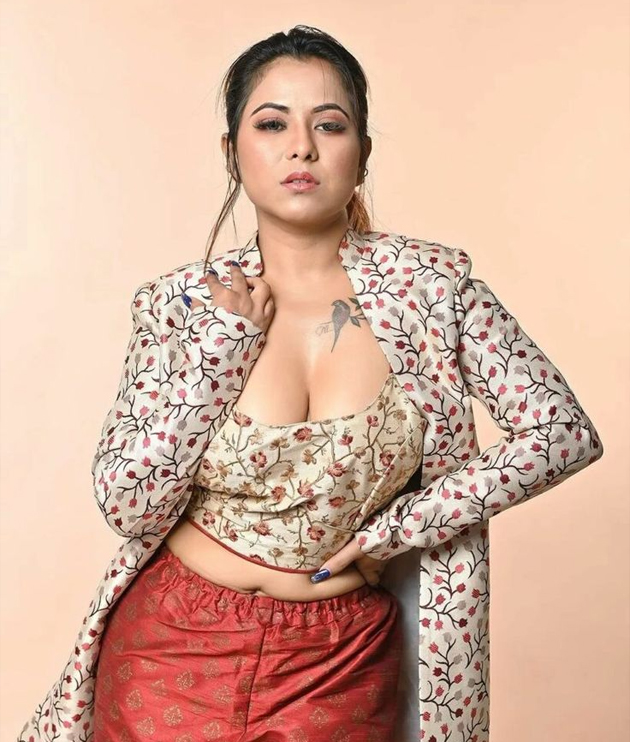
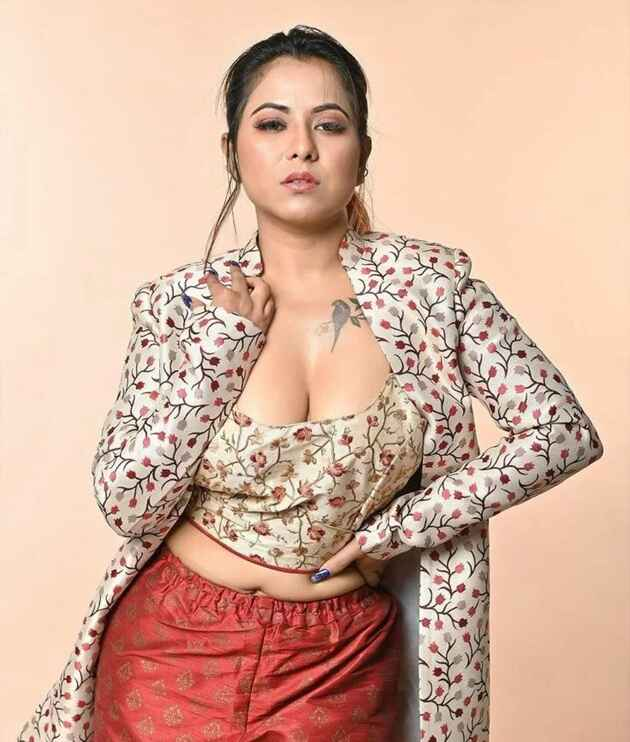
feat(bug fix):
- sort the every dropdown data alphabetically (done)
 - signup link should be domain/register (done)
 - login link should be domain/login (done)
 - reduce the image size (done)
 - On homepage margins above the large text should be reduced (done)
 - On search page the title buttons should be moved and aligned to left (done)

diff --git a/src/main/resources/templates/dashboard.html b/src/main/resources/templates/dashboard.html
@@ -173,17 +173,17 @@
 
   <!-- hero section end -->
   <div th:fragment="categoryDropdown"  class="container mt-2">
-    <div class="site-title my-5 row  ">
+    <div class="site-title my-3 row  ">
       <p class="text-center">FIND ADS IN LOCAL : INDIA</p>
     </div>
-    <div class="site-text  mt-2 row">
+    <div class="site-text  mt-1 row">
       <p class="text-center">Most Popular Location In A Specific Category</p>
     </div>
 
     <div hx-get="https://localhost/app/get/categories" hx-trigger="load" hx-swap="innerHTML" > </div>
 
 
-    <div class="container my-5 px-2">
+    <div class="container my-3 px-2">
       <div class=" p-3 lg-base text-start  fw-light bg-secondary-subtle ">
         Lorem ipsum dolor sit amet, consectetur adipiscing elit. Proin et
         est faucibus, condimentum nulla vitae, dictum neque. Nunc dignissim sem ut suscipit scelerisque. Nullam purus
@@ -221,7 +221,7 @@
           <p class="text-center pt-5 text-light header-icon-text" id="imp-link">Important Links</p>
         </div>
         <div class="row  blue-bg-desktop my-2 px-3 py-1 me-2 py-2 container d-flex  justify-content-around  ">
-          <div class=" text-light col-2 header-icon-text row "><a class=" col  text-light " href="">FAQ </a> <p class="col-1 d-sm-none d-lg-inline d-md-none " >|</p> </div>
+          <div class=" text-light col-2 header-icon-text row "><a class=" col  text-light " href="/faq">FAQ </a> <p class="col-1 d-sm-none d-lg-inline d-md-none " >|</p> </div>
           <div class=" text-light col-2 header-icon-text row "><a class=" col text-light " href="">Privacy Policy </a> <p class="col-1 d-sm-none  d-lg-inline d-md-none  " >|</p> </div>
           <div class=" text-light col-2 header-icon-text row "><a class=" col  text-light " href="">Terms & Condition </a> <p class="col-1 d-sm-none d-lg-inline d-md-none " >|</p> </div>
           <div class=" text-light col-2 header-icon-text row "><a class=" col text-light " href="">Contact Us </a> <p class="col-1 d-sm-none  d-lg-inline d-md-none " >|</p> </div>

diff --git a/src/main/resources/templates/category.html b/src/main/resources/templates/category.html
@@ -41,12 +41,12 @@
 
   <!-- hero section start -->
   <div class="container px-4 mt-2  p-1 fw-bold fs-5  ">
-    <a href="https://localhost/" class="row px-4 rounded mb-2   site-link"> < Back To Search </a>
+    <a href="https://localhost/" class="row px-0 rounded mb-2   site-link"> < Back To Search </a>
     <section class="bread_wraper mt-3">
-      <div class="container">
+      <div class="container px-0">
         <div class="row">
 
-          <div class="bread-inner text-left pb-3">
+          <div class="bread-inner px-0 text-left pb-3">
             <ul>
               <li><a href="https://localhost/">  <i class="fa fa-home  border border-1 rounded-4 border-black p-1 icon-pink " aria-hidden="true"></i> </a></li>
               <li> > </li>
@@ -62,7 +62,7 @@
 
 
 
-    <div class="row px-4 mt-2 text-capitalize " th:text="${location!=null?category.title+' in '+location.name+' ( ' + posts.size +' Results ) ' :category.title + ' in india ( '+ posts.size +' Results ) '}">location title</div>
+    <div class="row px-0 mt-2 text-capitalize " th:text="${location!=null?category.title+' in '+location.name+' ( ' + posts.size +' Results ) ' :category.title + ' in india ( '+ posts.size +' Results ) '}">location title</div>
 
   </div>
 

diff --git a/src/main/java/com/incallup/backend/controller/ApplicationController.java b/src/main/java/com/incallup/backend/controller/ApplicationController.java
@@ -1,6 +1,7 @@
 package com.incallup.backend.controller;
 
 import com.incallup.backend.domain.Category;
+import com.incallup.backend.domain.Location;
 import com.incallup.backend.service.AdminQueryService;
 import com.incallup.backend.service.ApplicationQueryService;
 import lombok.RequiredArgsConstructor;
@@ -12,6 +13,7 @@ import org.springframework.web.bind.annotation.RequestMapping;
 import org.springframework.web.bind.annotation.RequestParam;
 import org.springframework.web.servlet.ModelAndView;
 
+import java.util.Collections;
 import java.util.List;
 
 @Controller
@@ -46,7 +48,8 @@ public class ApplicationController {
 
     @GetMapping("get/state/options")
     public ModelAndView getStatesOptions(ModelAndView modelAndView){
-        var states = adminQueryService.listStates();
+        List<String> states = adminQueryService.listStates();
+        Collections.sort(states);
         modelAndView.addObject("states",states);
         modelAndView.setViewName("state-options");
         return modelAndView;
@@ -54,7 +57,8 @@ public class ApplicationController {
     @GetMapping("/get/city/options")
     public ModelAndView getCitiesOptions(ModelAndView modelAndView,@RequestParam String state)
     {
-        var locations = applicationQueryService.getLocationByState(state);
+        List<Location> locations = applicationQueryService.getLocationByState(state);
+        locations.sort(new Location());
         modelAndView.addObject("locations",locations);
         modelAndView.setViewName("district-options");
         return modelAndView;

diff --git a/src/main/java/com/incallup/backend/domain/Location.java b/src/main/java/com/incallup/backend/domain/Location.java
@@ -8,6 +8,7 @@ import org.hibernate.annotations.UpdateTimestamp;
 
 import java.time.Instant;
 import java.util.ArrayList;
+import java.util.Comparator;
 import java.util.List;
 
 @Getter
@@ -17,7 +18,7 @@ import java.util.List;
 @NoArgsConstructor
 @ToString
 @Entity(name = "tbl_location")
-public class Location {
+public class Location implements Comparator<Location> {
 
     @Id
     @GeneratedValue(strategy = GenerationType.IDENTITY)
@@ -53,4 +54,8 @@ public class Location {
     @OneToMany(fetch = FetchType.LAZY,cascade = CascadeType.ALL)
     private List<Post> posts = new ArrayList<>();
 
+    @Override
+    public int compare(Location o1, Location o2) {
+        return o1.getName().compareToIgnoreCase(o2.getName());
+    }
 }

diff --git a/README.md b/README.md
@@ -28,15 +28,17 @@ translation : https://incallup-com.translate.goog/dating/thane?_x_tr_sl=la&_x_tr
 screen size for phone : 343 x 686
 
 to-do list :
- - sort the every dropdown data alphabetically
- - signup link should be domain/register
- - login link should be domain/login
- - add validations for post form
- - fix search form
- - reduce the image size
+ - sort the every dropdown data alphabetically (done)
+ - signup link should be domain/register (done)
+ - login link should be domain/login (done)
+ - add validations for post form 
+ - fix search form 
+ - reduce the image size (done)
  - Title page picture size should be fixed
- - On homepage margins above the large text should be reduced
- - On search page the title buttons should be moved and aligned to left
+ - On homepage margins above the large text should be reduced (done)
+ - On search page the title buttons should be moved and aligned to left (done)
  - There should be separate screens for mobile and desktop on title page.
  - improve seller panel UI
+ - add compression in application 
+ - add watermark in image using java
 
